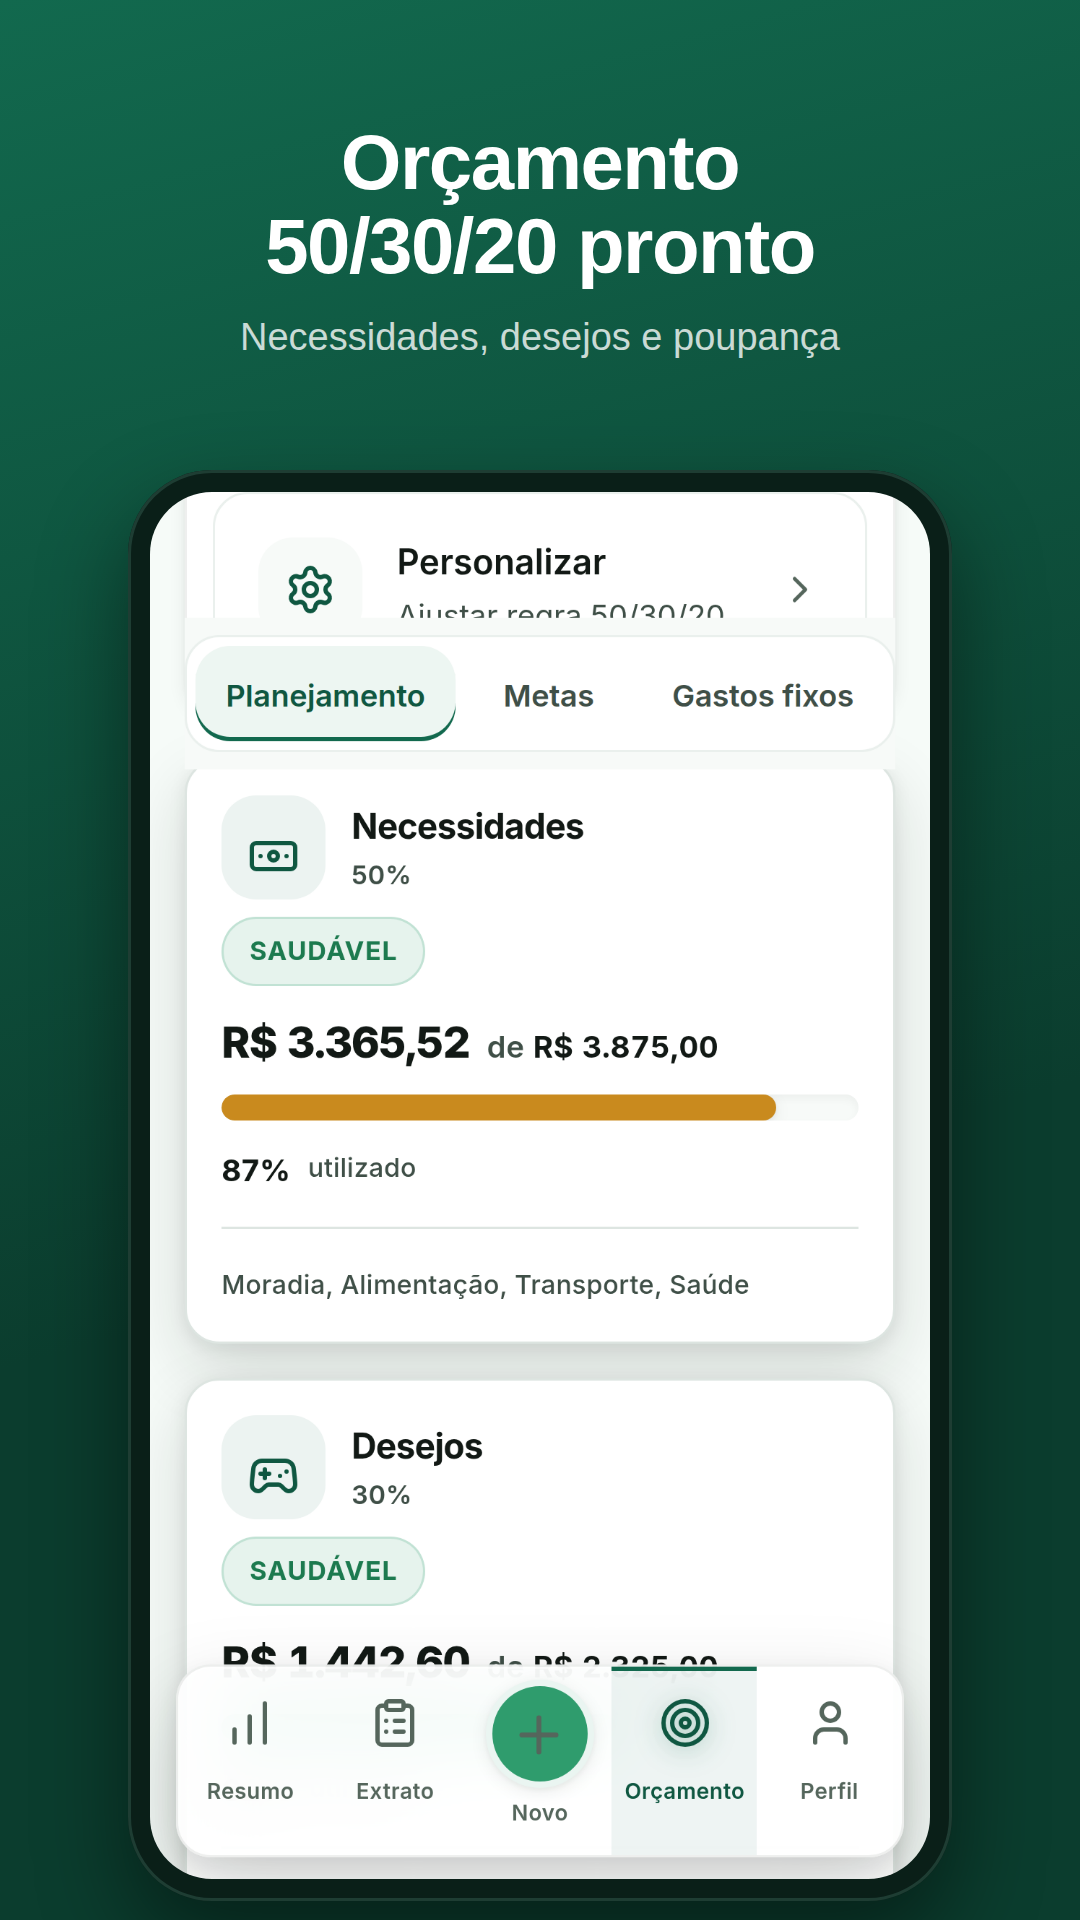
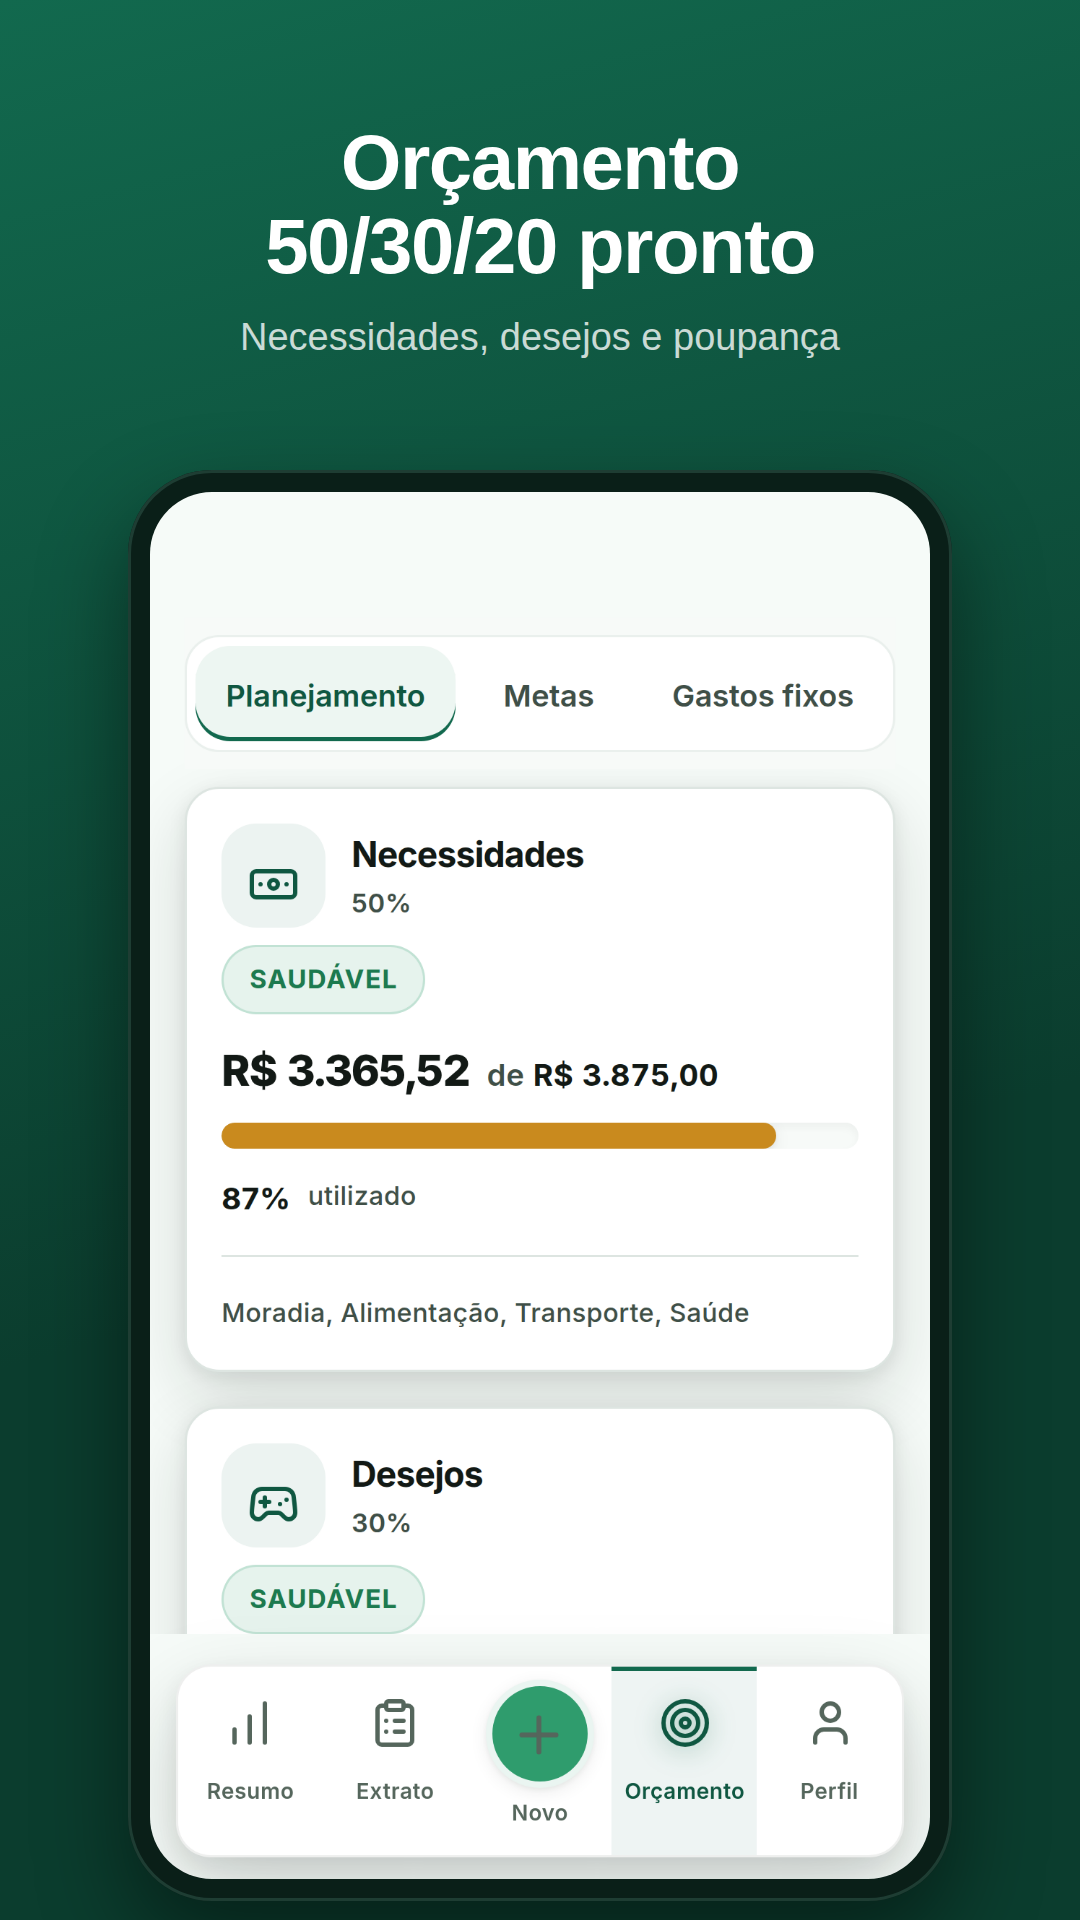
feat(play): capturas de tablet em 9:16 (7" e 10") e recortes corrigidos
A Play só aceita 9:16 nas capturas de tablet; as de 1200x1920 (16:10)
ficavam de fora. Agora o gerador faz três conjuntos: celular 1080x1920,
tablet de 7" 1080x1920 (tela de 600 px) e tablet de 10" 1440x2560 (tela
de 800 px, com o layout de duas colunas do app).

Nas capturas, a barra de navegação fica opaca (antes deixava ver texto
por trás), a rolagem respeita as abas presas no topo e o que sobra
cortado acima do alvo some da foto. A 02 mostra o valor inteiro e a 03
abre nos cartões 50/30/20.

Claude-Session: https://claude.ai/code/session_01WtcGfL9CwmfvzwEabeZDpK

diff --git a/tests/vitrine-play.test.js b/tests/vitrine-play.test.js
@@ -48,10 +48,12 @@ describe('Vitrine da Play', function() {
       expect(tamanhoPng(path.join(dir, c.arquivo + '.png'))).toEqual({ w: 1080, h: 1920 });
     });
     expect(tamanhoPng(path.join(dir, 'destaque-1024x500.png'))).toEqual({ w: 1024, h: 500 });
-    // Tablet de 7" em retrato (achado A10: sem ele o app aparece menos em
-    // tablets e Chromebooks).
+    // Tablets de 7" e 10" em retrato (achado A10: sem eles o app aparece
+    // menos em tablets e Chromebooks). A Play só aceita 9:16 no tablet; as
+    // de 1200×1920 (16:10) ficavam de fora.
     CAPTURAS.forEach(function(c) {
-      expect(tamanhoPng(path.join(dir, 'tablet', c.arquivo + '.png'))).toEqual({ w: 1200, h: 1920 });
+      expect(tamanhoPng(path.join(dir, 'tablet', c.arquivo + '.png'))).toEqual({ w: 1080, h: 1920 });
+      expect(tamanhoPng(path.join(dir, 'tablet-10', c.arquivo + '.png'))).toEqual({ w: 1440, h: 2560 });
     });
   });
 
@@ -68,12 +70,15 @@ describe('Vitrine da Play', function() {
     expect(doMes.some(function(t) { return t.tipo === 'receita'; })).toBe(true);
     expect(doMes.some(function(t) { return t.tipo === 'despesa'; })).toBe(true);
   });
-  test('celular e tablet, nos tamanhos que a loja aceita', function() {
-    expect(FORMATOS.map(function(f) { return f.id; })).toEqual(['celular', 'tablet']);
+  test('celular e tablets de 7" e 10", todos em 9:16', function() {
+    expect(FORMATOS.map(function(f) { return f.id; })).toEqual(['celular', 'tablet', 'tablet-10']);
     FORMATOS.forEach(function(f) {
-      expect(f.tela.largura * f.tela.escala).toBe(f.saida.largura);
-      expect(f.saida.altura).toBe(1920);
+      expect(f.saida.largura * 16).toBe(f.saida.altura * 9);
+      expect(f.saida.largura).toBeGreaterThanOrEqual(1080);
     });
+    // O 10" pede lados a partir de 1080 px e tela de tablet grande de verdade.
+    var dez = FORMATOS.find(function(f) { return f.id === 'tablet-10'; });
+    expect(dez.tela.largura).toBeGreaterThanOrEqual(768);
   });
   test('imagens do conteúdo promocional em 16:9 e textos sem termo proibido', function() {
     function tamanhoPng(arquivo) {

diff --git a/docs/play-store-ficha.md b/docs/play-store-ficha.md
@@ -123,9 +123,11 @@ no app, e preço escrito na descrição fica errado no primeiro reajuste.
   (1080×1920, com legenda). Geradas por `npm run vitrine:gerar` a partir do app
   real com dados de exemplo. As antigas (`screenshot-*.png`) e a
   `screenshot-placeholder-1080x1920.png` (tela em branco) não vão para a loja.
-- Capturas de tablet de 7" (1200×1920, com legenda), na mesma ordem:
-  `docs/play-store/vitrine/tablet/01-*.png` a `08-*.png`. As antigas
-  `screenshot-*-tablet-*.png` saem da loja; as de 10" continuam como estão.
+- Capturas de tablet, na mesma ordem e com a mesma legenda, em 9:16 (a Play
+  só aceita essa proporção no tablet): 7" em `docs/play-store/vitrine/tablet/`
+  (1080×1920) e 10" em `docs/play-store/vitrine/tablet-10/` (1440×2560).
+  A tela dentro do aparelho é a do app numa largura de tablet de verdade
+  (600 e 800 px). As antigas `screenshot-*-tablet-*.png` (16:10) saem da loja.
 - Idioma padrão: Português (Brasil).
 - Pro com **trial de 7 dias** no Play Console, nos SKUs `financaspro.pro.monthly` e `.yearly` (ver `play-store-billing-runbook.md`).
 - Preços dos SKUs: **R$ 16,99/mês** e **R$ 129,99/ano** (tiers do Play). Preço

diff --git a/docs/play-store/roteiro-play-console.md b/docs/play-store/roteiro-play-console.md
@@ -15,8 +15,9 @@ Pasta `docs/play-store/vitrine/` no GitHub:
 https://github.com/Renato137068/financaspro/tree/main/docs/play-store/vitrine
 
 Baixe os nove arquivos (abra cada um e use "Download raw file"):
-`01-resumo.png` … `08-privacidade.png` e `destaque-1024x500.png`; e, da
-subpasta `tablet/`, as oito capturas de tablet.
+`01-resumo.png` … `08-privacidade.png` e `destaque-1024x500.png`; da
+subpasta `tablet/`, as oito capturas de tablet de 7"; e da `tablet-10/`, as
+oito de tablet de 10".
 
 ## Prompt para colar na extensão
 
@@ -111,7 +112,9 @@ PARTE 2 — Imagens (eu envio, você me guia)
      05-extrato, 06-metas, 07-previsao, 08-privacidade, e que nenhuma
      captura em branco ficou na lista.
    - em "Capturas de tela de tablet de 7 polegadas", a mesma coisa com os
-     arquivos da pasta tablet/ (01 a 08, na mesma ordem).
+     arquivos da pasta tablet/ (01 a 08, na mesma ordem);
+   - em "Capturas de tela de tablet de 10 polegadas", a mesma coisa com os
+     arquivos da pasta tablet-10/ (01 a 08, na mesma ordem).
 5. Salve de novo.
 
 PARTE 3 — Avaliações
